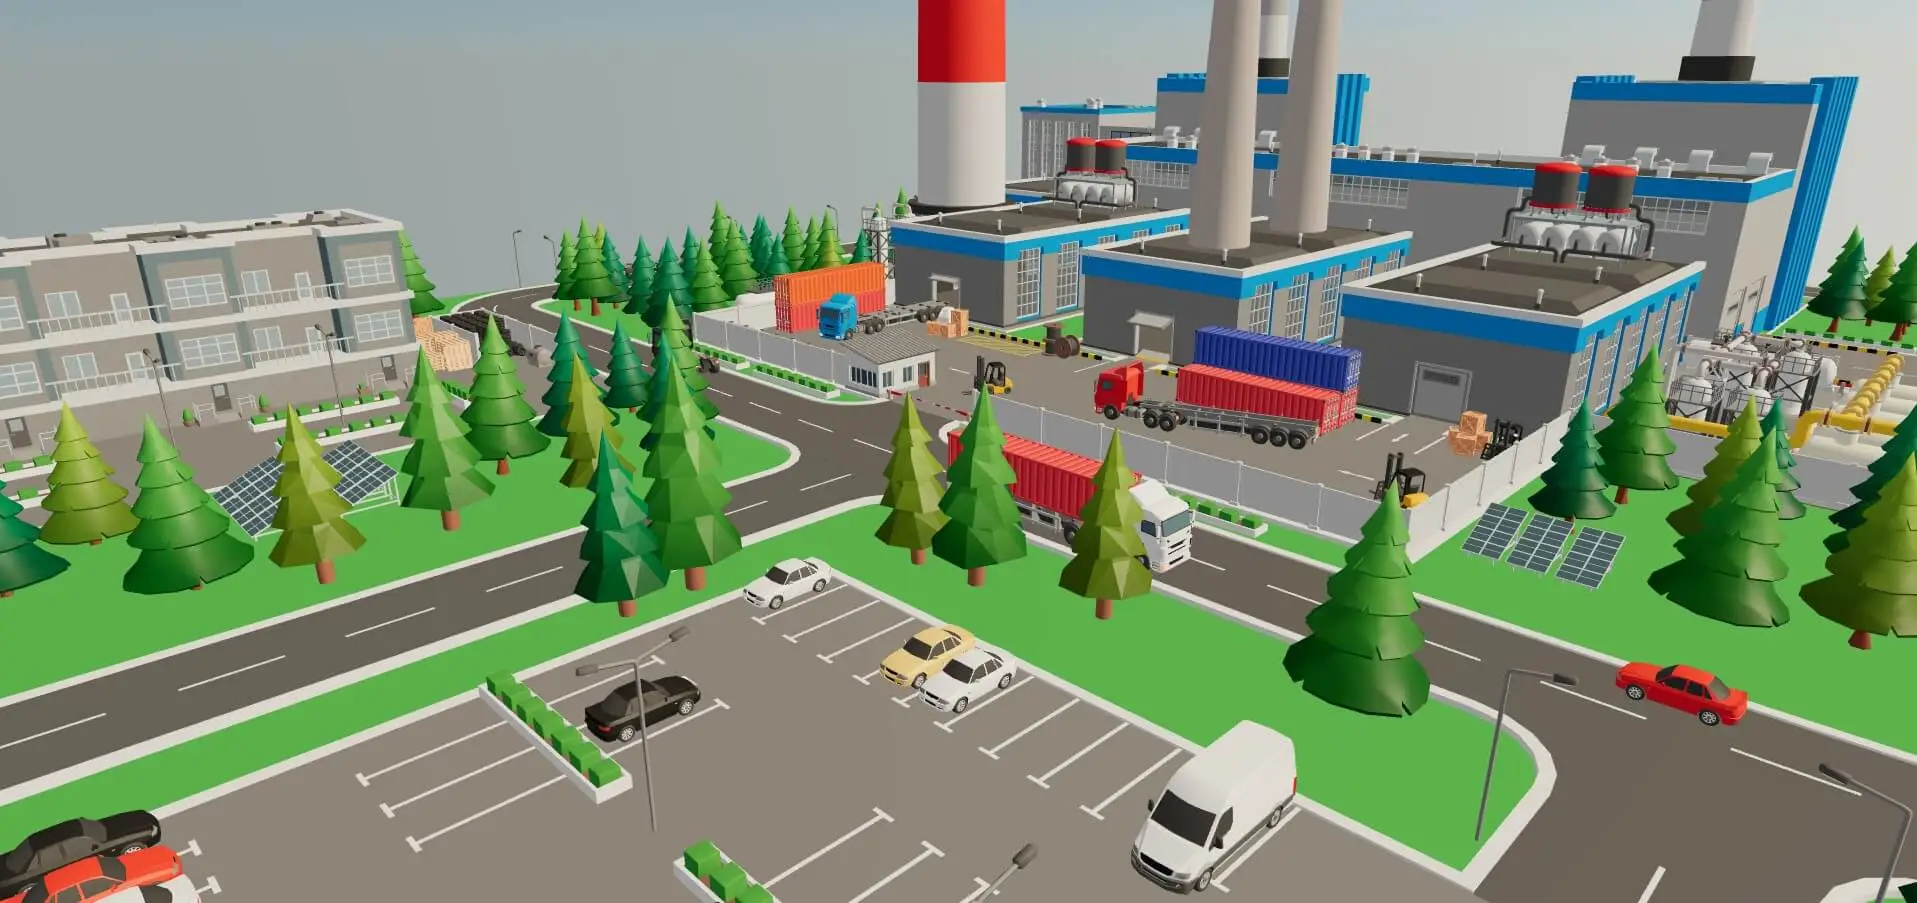
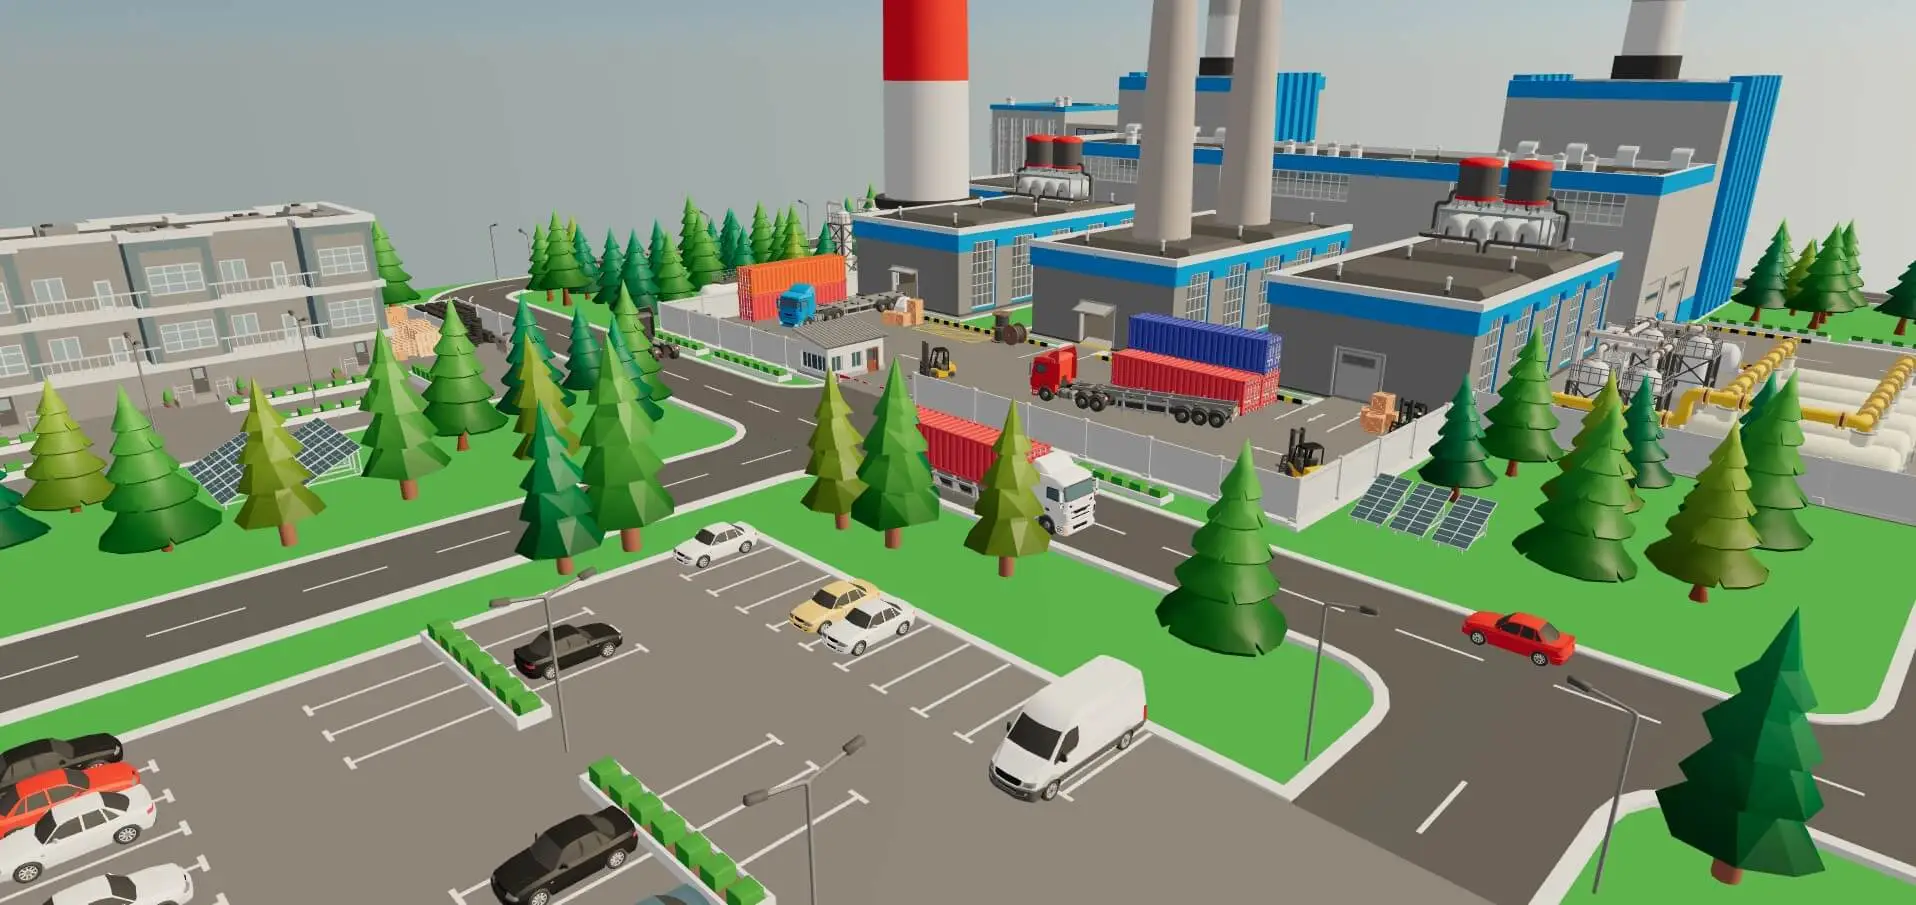
Améliore écran loader

diff --git a/index.html b/index.html
@@ -1,10 +1,10 @@
 <!DOCTYPE html>
-<html lang="en">
+<html lang="fr">
   <head>
     <meta charset="UTF-8" />
     <meta http-equiv="X-UA-Compatible" content="IE=edge" />
     <meta name="viewport" content="width=device-width, initial-scale=1.0" />
-    <title>First React Three Fiber Application</title>
+    <title>France Infra Rouge</title>
     <link
       href="https://fonts.googleapis.com/css2?family=Outfit:wght@400;600;700&display=swap"
       rel="stylesheet"

diff --git a/src/style.scss b/src/style.scss
@@ -85,14 +85,6 @@ body,
   }
 }
 
-.factory3d-canvas-loader-container {
-  position: absolute;
-  top: 0;
-  left: 0;
-  width: 100vw;
-  height: 100vh;
-}
-
 .factory3d-return-button {
   position: absolute;
   top: 1rem;
@@ -107,6 +99,14 @@ body,
   cursor: pointer;
   border-radius: 50px;
   z-index: 1;
+}
+
+.factory3d-canvas-loader-container {
+  position: absolute;
+  top: 0;
+  left: 0;
+  width: 100vw;
+  height: 100vh;
 }
 
 .factory3d-canvas-loader {
